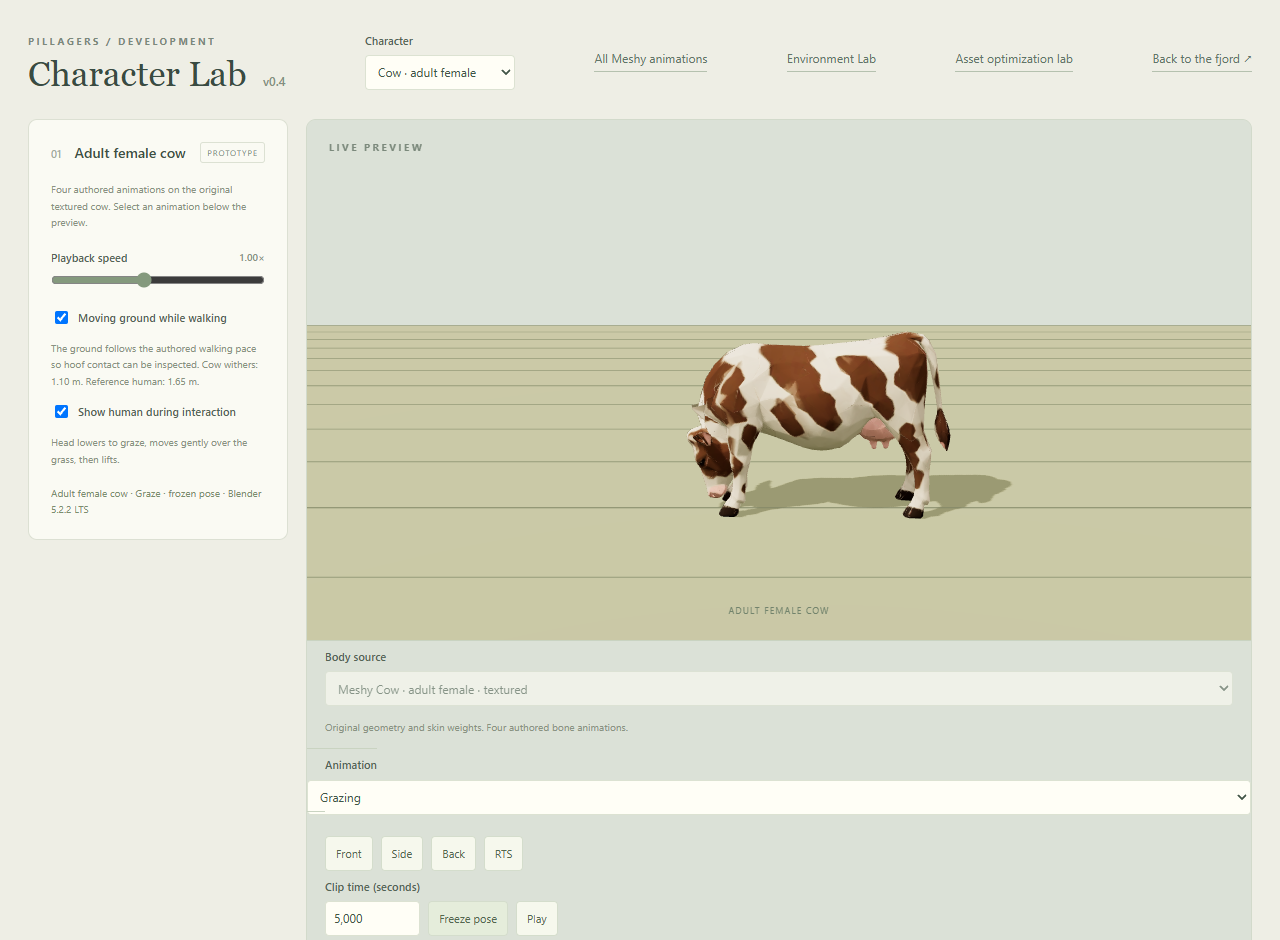
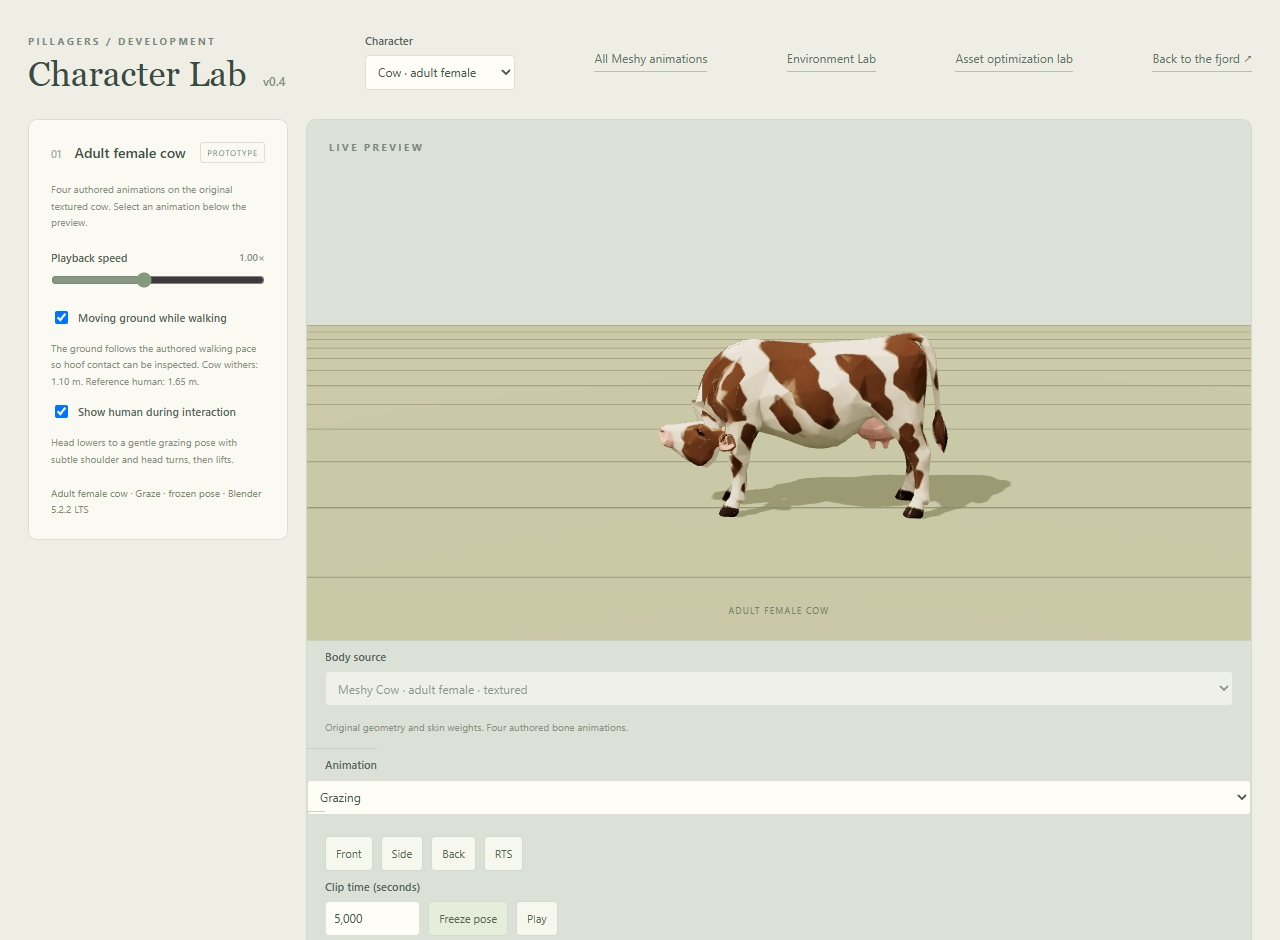
Raise grazing head pose and add subtle shoulder and head turns

Changed region(s): [[0.5, 0.3394, 0.6562, 0.5245], [0.0312, 0.4628, 0.1875, 0.4936], [0.6875, 0.4011, 0.75, 0.4936]]

diff --git a/src/character-lab/CowCharacterPreview.ts b/src/character-lab/CowCharacterPreview.ts
@@ -123,7 +123,7 @@ export class CowCharacterPreview {
   this.mixer.stopAllAction();this.clip=clip;this.action=this.actions.get(clip)!;this.action.reset().play();this.mixer.update(0);this.walkDistance=0;this.paused=false;
   this.time.max=String(this.action.getClip().duration);
   (document.querySelector('#lab-animation') as HTMLSelectElement).value=clip;this.canvas.dataset.animation=clip;
-  const descriptions:Record<Clip,string>={Idle:'Quiet standing with subtle breathing, ears and tail.',Graze:'Head lowers to graze, moves gently over the grass, then lifts.',Walk:'Four-beat walk. The moving ground follows the authored '+this.manifest.walkSpeedMps.toFixed(2)+' m/s pace.',HumanInteraction:'Attentive head lift with gentle up-and-down movement toward a human.'};
+  const descriptions:Record<Clip,string>={Idle:'Quiet standing with subtle breathing, ears and tail.',Graze:'Head lowers to a gentle grazing pose with subtle shoulder and head turns, then lifts.',Walk:'Four-beat walk. The moving ground follows the authored '+this.manifest.walkSpeedMps.toFixed(2)+' m/s pace.',HumanInteraction:'Attentive head lift with gentle up-and-down movement toward a human.'};
   document.querySelector('#lab-cow-description')!.textContent=descriptions[clip];this.report();
   if(this.human)this.human.root.visible=this.showHuman();
   if(clip==='HumanInteraction')void this.ensureHuman();

diff --git a/scripts/author-cow-animations.py b/scripts/author-cow-animations.py
@@ -49,6 +49,14 @@ def author(source, output):
     scene.render.fps = FPS
     scene.frame_start = 1
     rest = {b.name: b.matrix_local.copy() for b in arm.data.bones}
+    # A muzzle-to-poll surface axis gives an anatomical tilt, not bone Euler angles.
+    muzzle = [v for v in vertices if v.y < -1.24 and abs(v.x) < 0.12]
+    poll = [v for v in vertices if -1.05 < v.y < -0.95 and v.z > 1.54 and abs(v.x) < 0.12]
+    if not muzzle or not poll:
+        raise ValueError("Cannot identify adult female head landmarks")
+    axis = (sum(muzzle, Vector()) / len(muzzle) - sum(poll, Vector()) / len(poll)).normalized()
+    neutral_head_pitch = math.atan2(-axis.z, -axis.y)
+    head_axis_local = rest["Bone_031"].to_3x3().inverted() @ (arm.matrix_world.to_3x3().inverted() @ axis)
     constraints, feet = [], {}
     for name, (end, hoof, count, phase, duty) in LEGS.items():
         target = bpy.data.objects.new("HoofTarget_"+name, None)
@@ -107,12 +115,28 @@ def author(source, output):
                     target.location.z += 0.085*math.sin(math.pi*u)**1.2
         elif clip == "Graze":
             down = smooth(t/2.4)*(1-smooth((t-9.6)/2.4))
-            rotate("Bone_000", (1,0,0), 0.095*down)
-            rotate("Bone_036", (1,0,0), 1.52*down)
-            rotate("Bone_034", (1,0,0), 0.16*down)
-            rotate("Bone_032", (1,0,0), -0.04*down+0.025*down*wave(t,2))
-            rotate("Bone_031", (1,0,0), -0.72*down)
-            rotate("Bone_031", (0,0,1), 0.055*down*wave(t,3))
+            rotate("Bone_000", (1,0,0), 0.065*down)
+            # Z is Blender's vertical axis: gentle body, shoulder and head yaw.
+            rotate("Bone_000", (0,0,1), math.radians(1.0)*down*wave(t,6))
+            rotate("Bone_028", (0,0,1), math.radians(1.25)*down*wave(t,4))
+            rotate("Bone_036", (1,0,0), 1.48*down)
+            rotate("Bone_036", (0,0,1), math.radians(1.5)*down*wave(t,6,0.6))
+            rotate("Bone_034", (1,0,0), 0.14*down)
+            rotate("Bone_032", (1,0,0), -0.04*down+0.015*down*wave(t,2))
+            desired_pitch = neutral_head_pitch*(1-down) + math.radians(15)*down
+            # Counter-rotate the skull as the neck lowers. Correct in evaluated
+            # armature space so the tilt stays near 15 degrees through the sway.
+            for _ in range(2):
+                bpy.context.view_layer.update()
+                evaluated = arm.evaluated_get(bpy.context.evaluated_depsgraph_get())
+                direction = arm.matrix_world.to_3x3() @ (evaluated.pose.bones["Bone_031"].matrix.to_3x3() @ head_axis_local)
+                pitch = math.atan2(-direction.z, -direction.y)
+                rotate("Bone_031", (1,0,0), desired_pitch-pitch)
+            bpy.context.view_layer.update()
+            evaluated = arm.evaluated_get(bpy.context.evaluated_depsgraph_get())
+            head = arm.pose.bones["Bone_031"]
+            axis_local = evaluated.pose.bones["Bone_031"].matrix.to_3x3().inverted() @ (arm.matrix_world.to_3x3().inverted() @ Vector((0,0,1)))
+            head.rotation_quaternion = head.rotation_quaternion @ Quaternion(axis_local.normalized(), math.radians(3.0)*down*wave(t,3,0.8))
             # This mesh has no anatomically separate jaw: no invented chewing bone.
         elif clip == "HumanInteraction":
             attention = math.sin(math.pi*t/6)**2
@@ -202,6 +226,7 @@ def author(source, output):
         "withersHeightM":TARGET_WITHERS_HEIGHT,"sourceWithersHeightM":source_withers,
         "physicalScale":physical_scale,"height":source_height*physical_scale,
         "variant":"adult-female","boneCount":len(arm.data.bones),
+        "grazing":{"headTiltDegrees":15,"yawDegrees":{"body":1,"shoulders":1.25,"neck":1.5,"head":3}},
         "referenceMethod":"Authored keys with cattle gait literature; not video motion capture",
         "proposedVideo":"https://youtu.be/sObyVL3oU6g",
         "references":[
@@ -216,4 +241,3 @@ if __name__ == "__main__":
     p.add_argument("--output",type=Path,required=True)
     a = p.parse_args(sys.argv[sys.argv.index("--")+1:])
     author(a.source.resolve(),a.output.resolve())
-

diff --git a/docs/CATTLE-ANIMATIONS-V01.md b/docs/CATTLE-ANIMATIONS-V01.md
@@ -30,8 +30,12 @@ Walk is in place at approximately 0.37 m/s after physical scaling, with HL → F
 follows that pace. World playback must match movement speed to playback rate
 and model scale. Cattle gameplay rules and balances are unchanged.
 
-Graze shifts weight forward while IK holds the hoof targets. The muzzle
-approaches about 6 cm above authoring ground after physical scaling, leaving room for grass.
+Graze keeps a raised feeding pose: the muzzle-to-poll head axis stays near
+15 degrees downward relative to the ground during 2.4–9.6 s. The muzzle is
+approximately 0.41 m above the ground in this artistic pose. Gentle Blender
+Z-axis turns originate in the body (1 degree), shoulders (1.25 degrees), neck
+(1.5 degrees) and head (3 degrees). Head turns use the world vertical axis
+after pitch correction. IK holds all four hoof targets during these turns.
 The optional Meshy Human faces the cow as a visual reference.
 
 ## Editable source
@@ -42,8 +46,8 @@ Original, unchanged:
 Outputs in its `Animations/` directory:
 
 - `cow-female-adult-animations.blend`: editable Blender 5.2.2 file, four Actions.
-- `cow-female-adult-animated.glb`: full texture export, about 6.58 MB.
-- `cow-female-adult-runtime.glb`: optimized browser version, about 0.88 MB.
+- `cow-female-adult-animated.glb`: full texture export, about 6.59 MB.
+- `cow-female-adult-runtime.glb`: optimized browser version, about 0.91 MB.
 - `authoring.json` and `runtime-manifest.json`: source identity and measurements.
 
 In Blender select SmartRigArmature, open Dope Sheet → Action Editor, choose
@@ -85,7 +89,8 @@ All four clips were inspected in the existing lab. Its freeze/playback,
 camera, Human/Cow switching and mobile layout were checked through the UI.
 The exported skinned mesh measured 1.10001 m at the shoulder. All four clips
 had matching opening/closing keys. The preview reports a 1.65 m reference
-human. The original .glb retained its SHA-256; browser inspection had no page errors.
+human. Grazing head tilt was sampled across the feeding interval and the
+revised loop was visually checked in the browser. The original .glb retained its SHA-256; browser inspection had no page errors.
 `authoring.json` reports IK target residuals, not a guarantee of zero visible
 hoof sliding on every future terrain.
 
